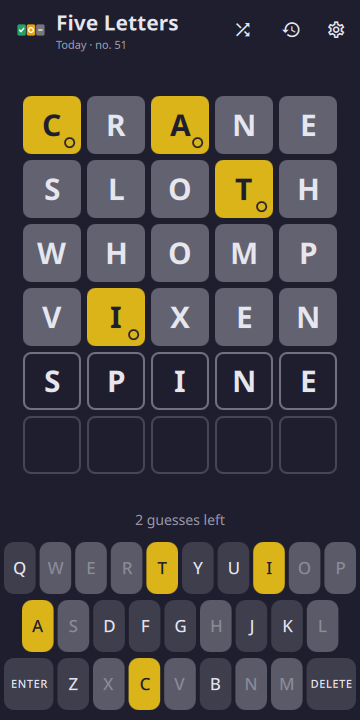
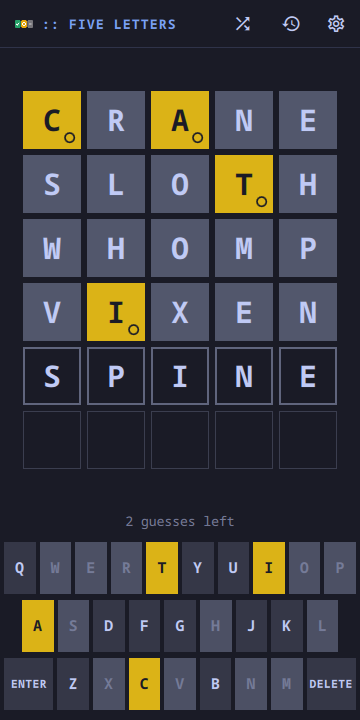
Five Letters in Omarchy's look: square tiles, lined record boxes
The tiles lose their rounding and an empty one is a thin line, a typed one
a heavier; the record's figures are lined squares labelled in small
capitals, and the guess bars are square. The marks that say which colour a
tile is stay discs: they are a shape, not a box.

diff --git a/apps/fiveletters/RecordView.qml b/apps/fiveletters/RecordView.qml
@@ -24,10 +24,10 @@ Column {
         required property var modelData
         width: (root.width - 24) / 4
         height: 72
-        radius: root.app.ui.radius + 2
+        radius: root.app.ui.radius
         color: root.app.ui.surface
         border.width: 1
-        border.color: root.app.ui.divider
+        border.color: root.app.ui.line
         Column {
           anchors.centerIn: parent
           spacing: 2
@@ -46,6 +46,8 @@ Column {
             color: root.app.ui.muted
             font.family: root.app.ui.font
             font.pixelSize: root.app.ui.fs.xs
+            font.capitalization: Font.AllUppercase
+            font.letterSpacing: root.app.ui.tracking
           }
         }
       }
@@ -71,7 +73,7 @@ Column {
           color: root.app.ui.muted
           font.family: root.app.ui.font
           font.pixelSize: root.app.ui.fs.sm
-          font.weight: Font.DemiBold
+          font.weight: Font.Bold
         }
         // A bar with nothing in it still gets a sliver, so the chart reads as
         // six rows rather than however many have been used.
@@ -79,7 +81,7 @@ Column {
           readonly property real room: parent.width - 24
           width: Math.max(28, root.most ? room * bar.modelData / root.most : 0)
           height: 24
-          radius: root.app.ui.radius / 2
+          radius: root.app.ui.radius
           color: bar.modelData ? root.app.ui.correct : root.app.ui.well
           Text {
             anchors.right: parent.right
@@ -89,7 +91,7 @@ Column {
             color: bar.modelData ? root.app.ui.inkOnCorrect : root.app.ui.muted
             font.family: root.app.ui.font
             font.pixelSize: root.app.ui.fs.sm
-            font.weight: Font.DemiBold
+            font.weight: Font.Bold
             font.features: ({ "tnum": 1 })
           }
         }

diff --git a/apps/fiveletters/Board.qml b/apps/fiveletters/Board.qml
@@ -104,9 +104,9 @@ Item {
 
               Rectangle {
                 anchors.fill: parent
-                radius: root.tile * 0.14
+                radius: root.app.ui.radius
                 color: cell.filled ? cell.fill : "transparent"
-                border.width: cell.filled ? 0 : 2
+                border.width: cell.filled ? 0 : (cell.letter !== "" ? 2 : 1)
                 border.color: cell.letter !== "" ? root.app.ui.typedEdge : root.app.ui.edge
               }
               Text {

diff --git a/apps/fiveletters/Panel.qml b/apps/fiveletters/Panel.qml
@@ -353,7 +353,7 @@ App {
       color: root.over ? root.ui.accent : root.ui.muted
       font.family: root.ui.font
       font.pixelSize: root.ui.fs.md
-      font.weight: root.over ? Font.DemiBold : Font.Normal
+      font.weight: root.over ? Font.Bold : Font.Normal
     }
     // A finished day, on a phone: what there is to do next.
     Row {

diff --git a/apps/fiveletters/Key.qml b/apps/fiveletters/Key.qml
@@ -27,7 +27,7 @@ Rectangle {
       : key.mark === G.ABSENT ? key.app.ui.keyAbsentText : key.app.ui.text
     font.family: key.app.ui.font
     font.pixelSize: key.wide ? key.app.ui.fs.xs : key.app.ui.fs.lg
-    font.weight: Font.DemiBold
+    font.weight: Font.Bold
     font.letterSpacing: key.wide ? 0.6 : 0
   }
   MouseArea {
